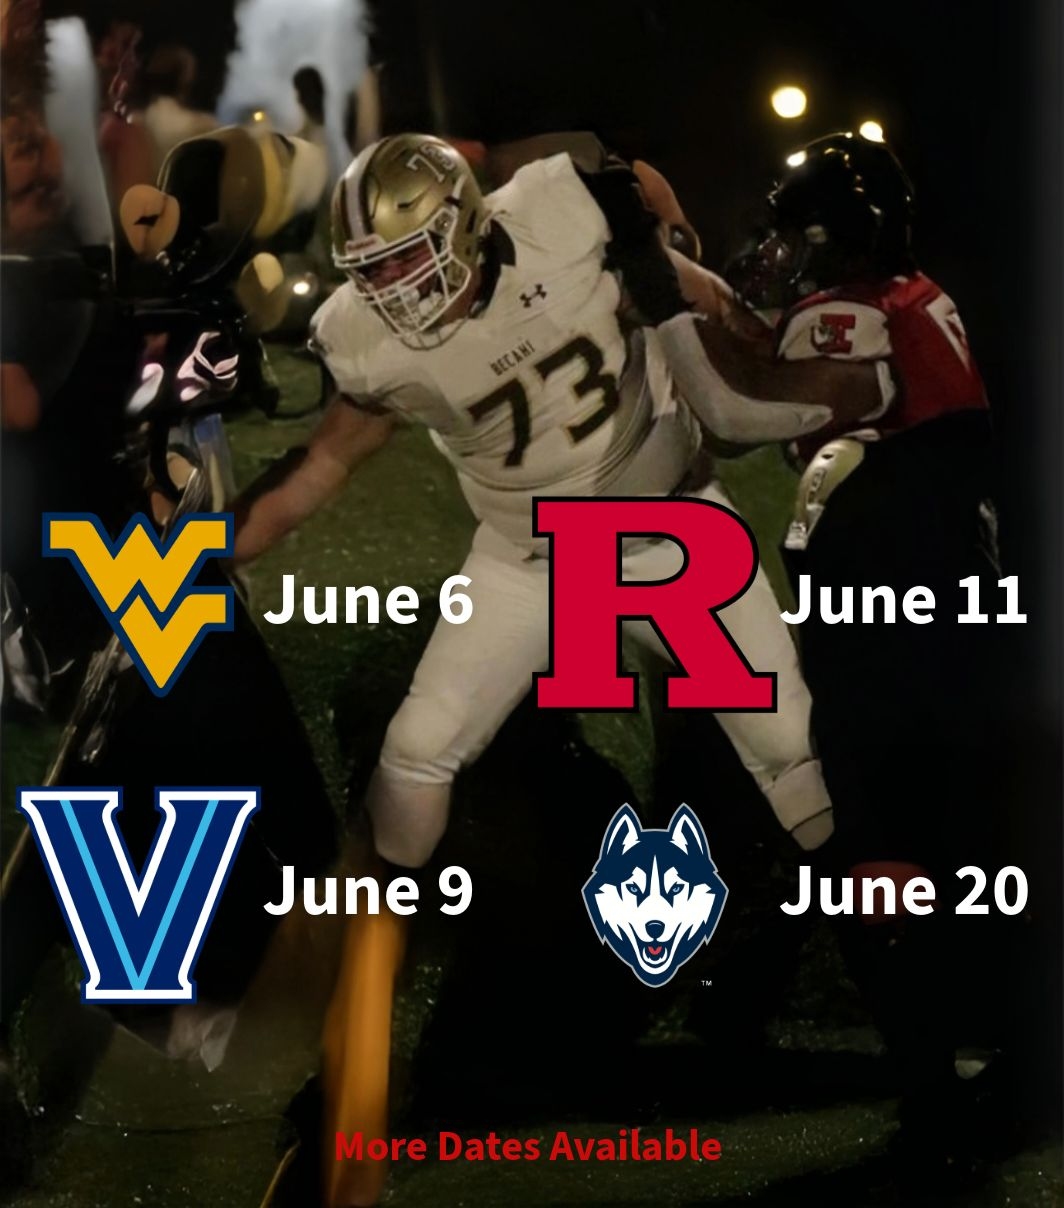
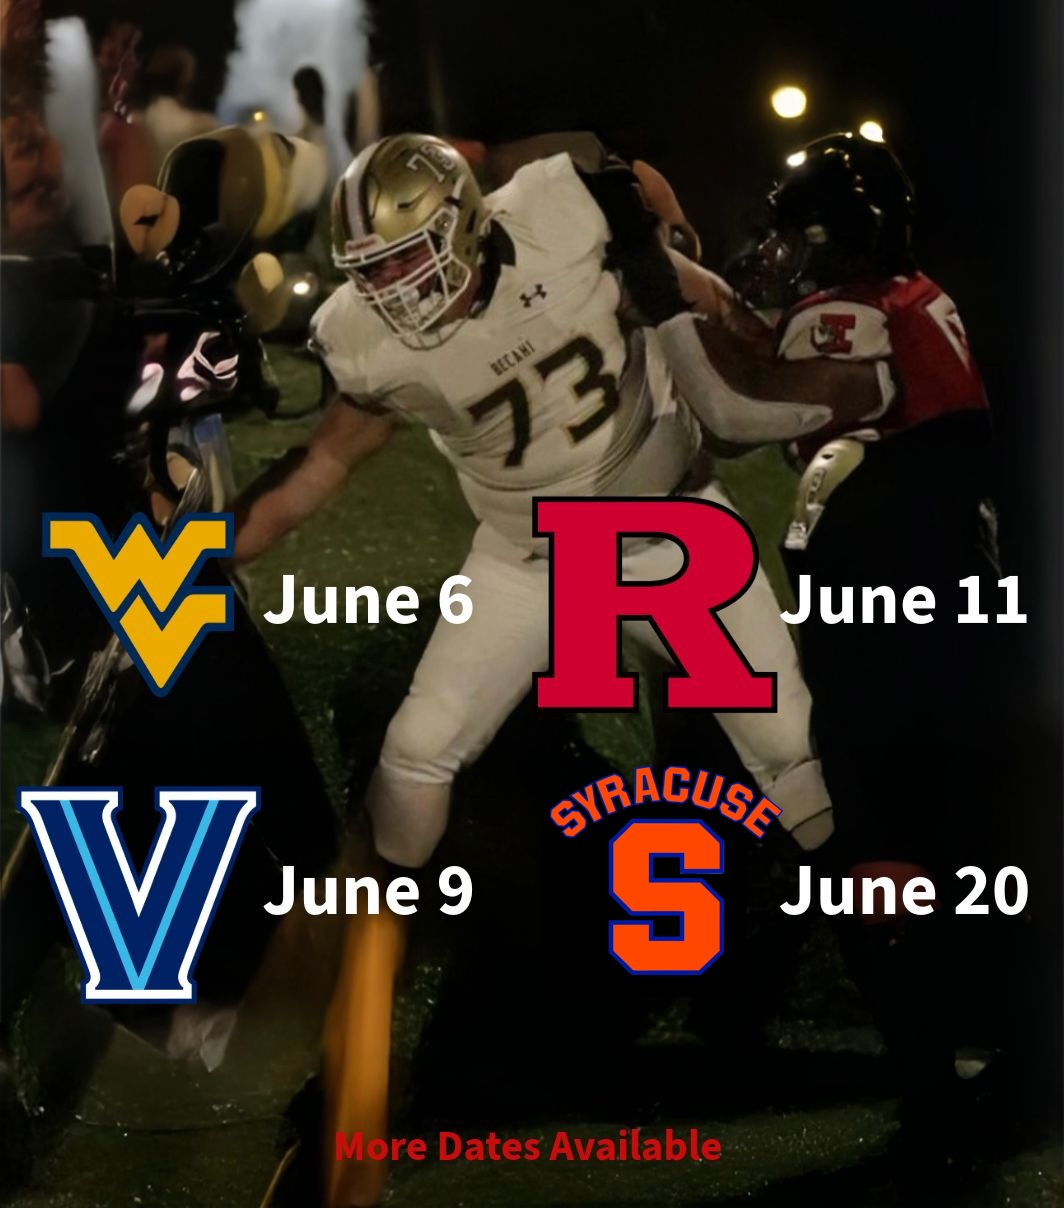
updated schedule

Changed region(s): [[0.5273, 0.6126, 0.7444, 0.827]]

diff --git a/schedule.md b/schedule.md
@@ -18,7 +18,7 @@ Below is my planned schedule for upcoming football camps in 2025, where I’ll b
 | June 6, 2025  | Elite 1-Day Camp                         | Morgantown, WV | Registration at 1 p.m., camp starts at 2 p.m |
 | June 9, 2025          | Prospect Camp                            | Villanova, Pa | The Prospect Camps are highly intense and competitive camps that are designed for advanced athletes who are searching to enhance their skills to prepare to play football beyond the high school level. 
 | June 11, 2025 | Big Man Academy                       | New Brunswick, NJ     | Open to Any and All. For OL and DL. Check-In Begins: 1:30PM SHI Stadium  [Register](https://scarletknights.com/sports/2025/2/27/2025-rutgers-football-camps.aspx) |
-| June 20, 2025 | UCONN              | Mansfield, CT  | 
+| June 20-21, 2025 | 2025 FRANchise Big Man Camp              | Syracuse, NY  | https://franchisecusecamps.totalcamps.com/shop/product/439095
 
 
 **Note**: Camp dates and locations are subject to change. Please visit the linked registration pages for the latest information or contact me for details on my participation.
